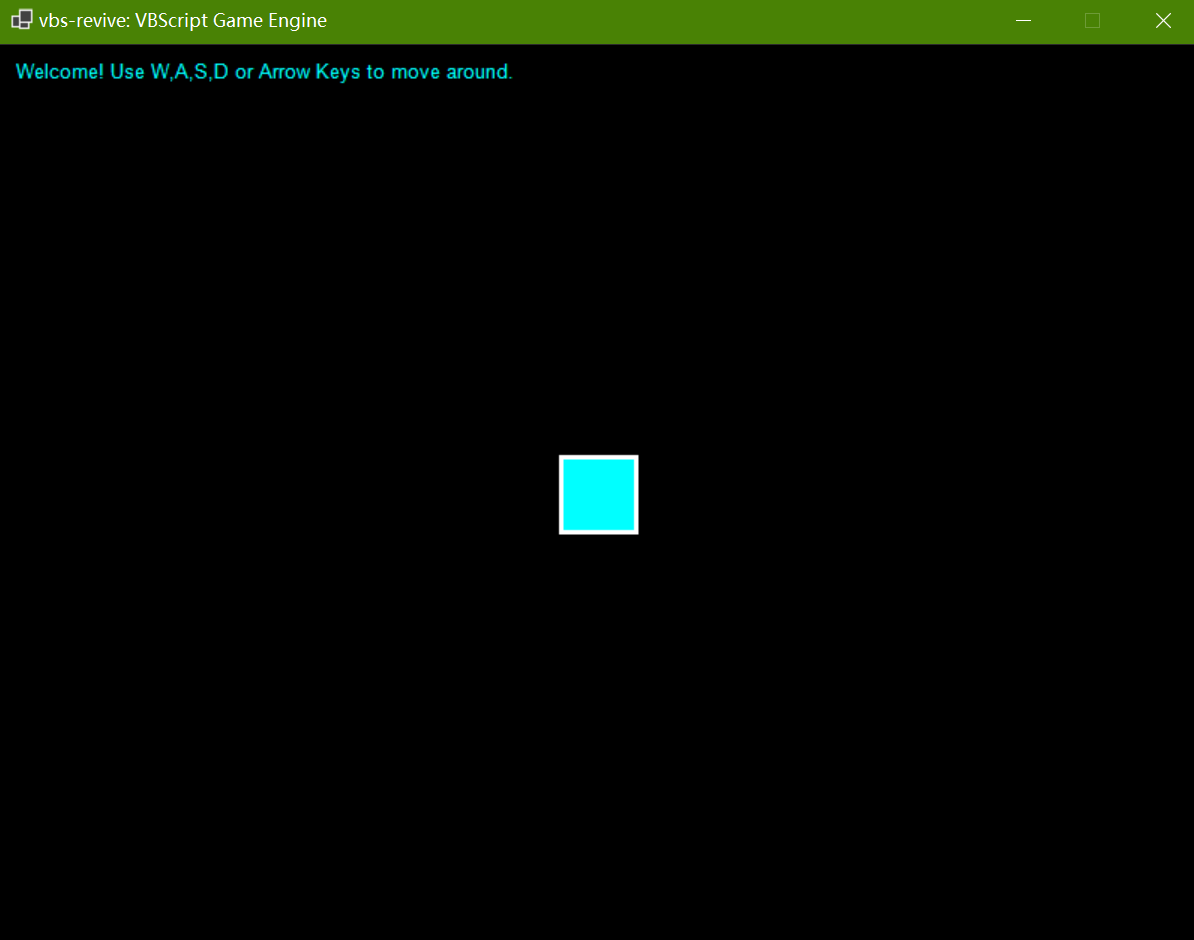
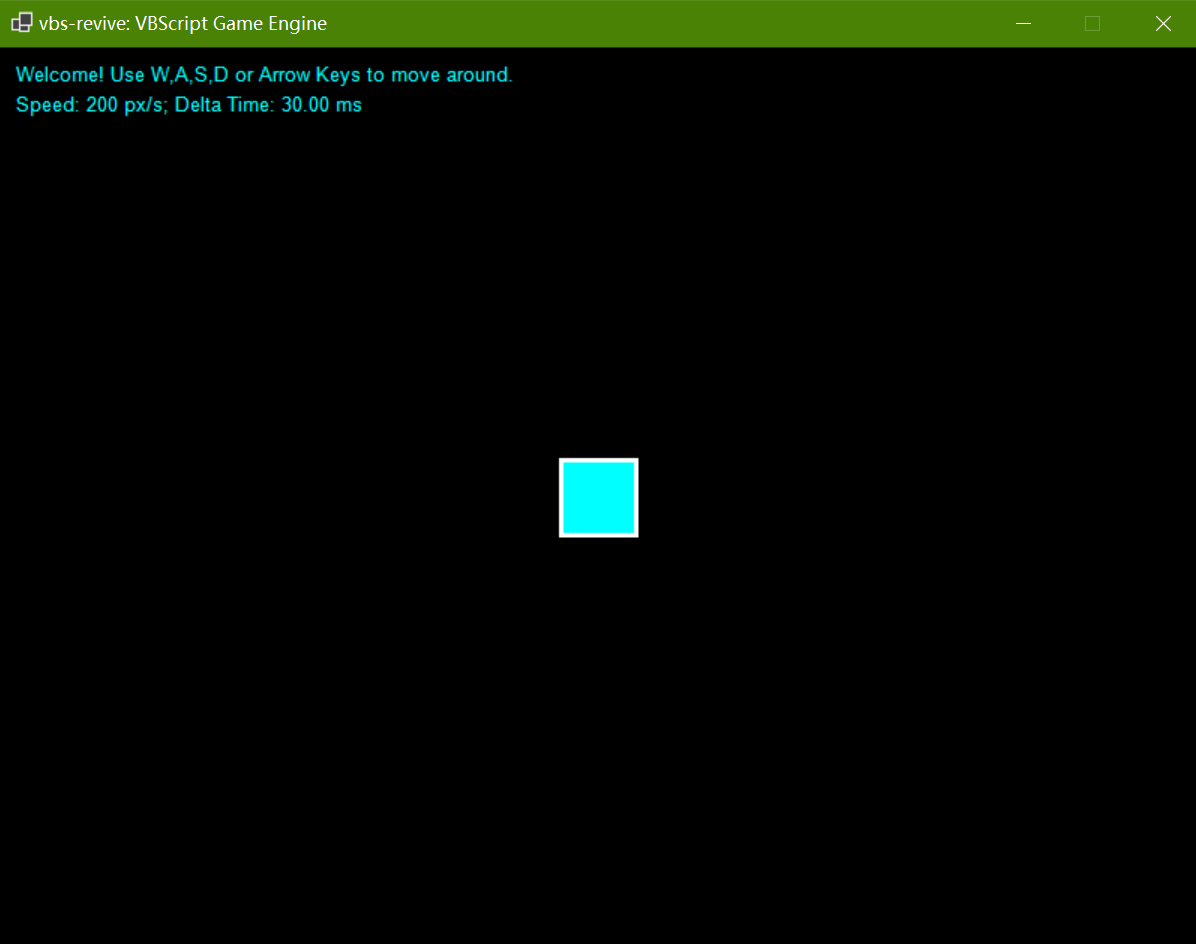
Add delta time & update VBScript scaffold

Changed region(s): [[0.0, 0.0, 1.0, 0.1234], [0.4648, 0.4628, 0.5268, 0.5862], [0.5268, 0.4936, 0.5578, 0.5553]]

diff --git a/README.md b/README.md
@@ -55,33 +55,36 @@ Upon first run, the engine creates default asset directories (`sounds`, `images`
 Your game logic goes in `gamemain.vbs` with three main functions:
 
 - `Initialize()`: Called once at startup
-- `Update()`: Called every frame for game logic
-- `Render(g)`: Called every frame for drawing
+- `Update(dt)`: Called every frame for game logic, where `dt` is delta time in seconds since last frame
+- `Render(g, dt)`: Called every frame for drawing, where `g` is the Graphics object and `dt` is delta time in seconds since last frame
 
 ### Example Script
 ```vbscript
 Option Explicit
-Dim playerRect, playerSpeed, font, text
+Dim playerRect, playerSpeed
 
 Sub Initialize()
     AppMain.Instance.SetWindowSize 800, 600
     playerRect = Recti.CreateFromCenter(Vec2i.Create(400, 300), 50, 50)
-    playerSpeed = 5
+    playerSpeed = 200  ' Unit: pixels per second
 End Sub
 
-Sub Update()
+Sub Update(dt)
+    Dim actualSpeed
+    actualSpeed = Convert.ToInt32(playerSpeed * dt)
+    
     With AppMain.Instance
         If .IsKeyHeld(Keys.Left) Or .IsKeyHeld(Keys.A) Then
-            playerRect.Offset -playerSpeed, 0
+            playerRect.Offset -actualSpeed, 0
         End If
         If .IsKeyHeld(Keys.Right) Or .IsKeyHeld(Keys.D) Then
-            playerRect.Offset playerSpeed, 0
+            playerRect.Offset actualSpeed, 0
         End If
         If .IsKeyHeld(Keys.Up) Or .IsKeyHeld(Keys.W) Then
-            playerRect.Offset 0, -playerSpeed
+            playerRect.Offset 0, -actualSpeed
         End If
         If .IsKeyHeld(Keys.Down) Or .IsKeyHeld(Keys.S) Then
-            playerRect.Offset 0, playerSpeed
+            playerRect.Offset 0, actualSpeed
         End If
     End With
     With playerRect
@@ -92,13 +95,18 @@ Sub Update()
     End With
 End Sub
 
-Sub Render(g)
+Sub Render(g, dt)
+    Dim font, text, fmtDt
+
     g.Clear Color.Black
     playerRect.DrawFilled g, Color.Cyan
     playerRect.DrawOutline g, 3
     Set font = FontAsset.Create("Arial")
     text = "Welcome! Use W,A,S,D or Arrow Keys to move around."
     font.DrawText g, text, 10, 10, Color.Cyan
+    fmtDt = Strings.Format(dt * 1000, "0.00")
+    text = "Speed: " & playerSpeed & " px/s; Delta Time: " & fmtDt & " ms"
+    font.DrawText g, text, 10, 30, Color.Cyan
 End Sub
 ```
 
